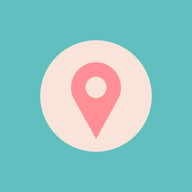
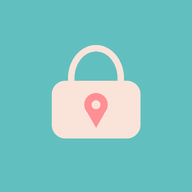
Add files via upload

Changed region(s): [[0.1875, 0.1875, 0.8125, 0.8125], [0.6875, 0.6875, 0.7188, 0.7188], [0.2812, 0.6875, 0.3125, 0.7188]]

diff --git a/index.html b/index.html
@@ -5,10 +5,10 @@
 <meta name="theme-color" content="#0f766e">
 <link rel="manifest" href="manifest.webmanifest">
 <link rel="icon" href="icon-192.png">
-<title>Biyahe</title>
+<title>Wanderpurse</title>
 <style>
-:root{color-scheme:light;--bg:#fae3d9;--cd:#fff7f3;--tx:#2b3a42;--mu:#5f6d73;--ac:#61c0bf;--on:#12363a;--ac2:#1f7a77;--ln:#efcfc3;--bad:#c0392b;--bar:#bbded6;--hd:#ffb6b9;--hx:#3b2a2e}
-:root[data-theme=dark]{color-scheme:dark;--bg:#141b1f;--cd:#1d272c;--tx:#eaf1f2;--mu:#93a5ab;--ac:#61c0bf;--on:#0c2a2d;--ac2:#7fd6d4;--ln:#2c3a40;--bad:#ff8a80;--bar:#2d5654;--hd:#243338;--hx:#ffb6b9}
+:root{color-scheme:light;--bg:#fcf7f4;--cd:#fff;--tx:#1f2a30;--mu:#66757c;--ac:#61c0bf;--on:#0e3236;--ac2:#237f7c;--ln:#f0e6e1;--bad:#c0392b;--bar:#e4f2ef;--hd:#fff;--hx:#1f2a30;--sh:0 1px 2px rgba(60,40,30,.07),0 2px 8px rgba(60,40,30,.05)}
+:root[data-theme=dark]{color-scheme:dark;--bg:#141b1f;--cd:#1d272c;--tx:#eaf1f2;--mu:#93a5ab;--ac:#61c0bf;--on:#0c2a2d;--ac2:#7fd6d4;--ln:#2c3a40;--bad:#ff8a80;--bar:#27413f;--hd:#1d272c;--hx:#eaf1f2;--sh:none}
 *{box-sizing:border-box}
 html,body{margin:0}
 body{background:var(--bg);color:var(--tx);font:16px/1.35 system-ui,sans-serif;padding:env(safe-area-inset-top) 0 calc(76px + env(safe-area-inset-bottom))}
@@ -51,9 +51,26 @@ nav .on{color:var(--ac2);opacity:1}
 .g .it{border:0;border-radius:0;border-top:1px solid var(--ln);margin:0;background:none}
 .pie{display:block;width:210px;max-width:70%;margin:6px auto 10px}
 .dot{display:inline-block;width:10px;height:10px;border-radius:50%;margin-right:6px}
+header{border:0;box-shadow:0 1px 0 var(--ln)}
+.card,.g,.it{border:0;box-shadow:var(--sh);border-radius:16px}
+.it{border-radius:14px}
+.g .it{box-shadow:none;border-top:1px solid var(--ln);border-radius:0}
+input,select{border:0;background:var(--bg);border-radius:12px;padding:12px}
+input:focus,select:focus{outline:2px solid var(--ac)}
+.ht select{background:var(--bg)}
+.btn{border-radius:24px;padding:14px;letter-spacing:.2px}
+.chip{border:0;background:var(--bg);padding:8px 14px}
+.chip.on{background:var(--bar);color:var(--ac2);font-weight:600;box-shadow:inset 0 0 0 1.5px var(--ac)}
+h3{font-size:13px;letter-spacing:.5px;text-transform:uppercase;color:var(--mu);margin:2px 0 8px}
+.gh{background:none;border-bottom:1px solid var(--ln)}
+nav{border:0;box-shadow:0 -1px 0 var(--ln)}
+nav button{opacity:1;font-size:inherit;padding:8px 0 10px}
+nav i{width:60px;height:30px;border-radius:15px;display:flex;align-items:center;justify-content:center}
+nav .on i{background:var(--bar)}
+nav svg{width:22px;height:22px;fill:none;stroke:currentColor;stroke-width:2;stroke-linecap:round;stroke-linejoin:round}
 </style></head><body>
 <header id="h"></header><main id="v"></main>
-<nav><button data-t="log" onclick="tab('log')">✏<small>Log</small></button><button data-t="list" onclick="tab('list')">📋<small>List</small></button><button data-t="rep" onclick="tab('rep')">📊<small>Report</small></button><button data-t="set" onclick="tab('set')">⚙<small>Setup</small></button></nav>
+<nav><button data-t="log" onclick="tab('log')"><i><svg viewBox="0 0 24 24"><path d="M12 5v14M5 12h14"/></svg></i><small>Log</small></button><button data-t="list" onclick="tab('list')"><i><svg viewBox="0 0 24 24"><path d="M8 6h12M8 12h12M8 18h12M4 6h.01M4 12h.01M4 18h.01"/></svg></i><small>List</small></button><button data-t="rep" onclick="tab('rep')"><i><svg viewBox="0 0 24 24"><path d="M5 20v-9M12 20V5M19 20v-12"/></svg></i><small>Report</small></button><button data-t="set" onclick="tab('set')"><i><svg viewBox="0 0 24 24"><path d="M4 7h10M18 7h2M4 17h2M10 17h10"/><circle cx="16" cy="7" r="2"/><circle cx="8" cy="17" r="2"/></svg></i><small>Setup</small></button></nav>
 <div id="t"></div>
 <script>
 const $=s=>document.querySelector(s),K='tl1';
@@ -63,7 +80,9 @@ let S;try{S={...D,...JSON.parse(localStorage.getItem(K)||'{}')}}catch(e){S={...D
 if(!S.trips.length){const t=mk(S.trip||'My Trip',S.base||'PHP');t.w=S.w||[];t.tx=S.tx||[];S.trips=[t];S.cur=t.id}
 ['trip','base','w','tx'].forEach(k=>delete S[k]);
 const Z=()=>S.trips.find(t=>t.id==S.cur)||S.trips[0],B=()=>Z().base;
-const save=()=>{try{localStorage.setItem(K,JSON.stringify(S))}catch(e){alert('Could not save: storage is full or blocked')}};
+let RM=false,MT;
+const save=()=>{try{localStorage.setItem(K,JSON.stringify(S))}catch(e){alert('Could not save: storage is full or blocked')}
+ const z=Z();if(!RM&&z.cid&&window.FB&&window.CU&&CU.ok){clearTimeout(MT);MT=setTimeout(()=>FB.meta(z).catch(()=>{}),700)}};
 const f=x=>x.toLocaleString(undefined,{minimumFractionDigits:2,maximumFractionDigits:2});
 const esc=s=>String(s).replace(/[&<>"]/g,c=>({'&':'&amp;','<':'&lt;','>':'&gt;','"':'&quot;'}[c]));
 const today=()=>new Date(Date.now()-new Date().getTimezoneOffset()*6e4).toISOString().slice(0,10);
@@ -72,18 +91,21 @@ const cu=()=>[...new Set([B(),...Z().w.map(x=>x.cur)])];
 const rate=c=>{if(c==B())return 1;let p=0,q=0;Z().w.forEach(x=>{if(x.cur==c){p+=x.php;q+=x.fc}});return q?p/q:null};
 const toast=m=>{const e=$('#t');e.textContent=m;e.classList.add('s');setTimeout(()=>e.classList.remove('s'),1200)};
 let T=S.owner?'log':'set',L=null,RV='cat';
-const th=()=>{const d=S.theme||(matchMedia('(prefers-color-scheme:dark)').matches?'dark':'light');document.documentElement.dataset.theme=d;document.querySelector('meta[name=theme-color]').content=d=='dark'?'#243338':'#ffb6b9';return d};
+const th=()=>{const d=S.theme||(matchMedia('(prefers-color-scheme:dark)').matches?'dark':'light');document.documentElement.dataset.theme=d;document.querySelector('meta[name=theme-color]').content=d=='dark'?'#1d272c':'#ffffff';return d};
 function tg(){S.theme=th()=='dark'?'light':'dark';save();tab()}
 const CE={Food:'🍜',Drink:'🧋','Major Transpo':'✈','Minor Transpo':'🛺',Activities:'🎡',Shopping:'🛍',Grocery:'🛒',Accommodation:'🏨',Pasabuy:'📦',Other:'✨'};
 const ce=c=>(S.ce&&S.ce[c])||CE[c]||'🏷';
 const PC=['#ff8f95','#61c0bf','#f9c784','#a3d9b1','#b8a9e8','#8cc7f0','#f4a6d7','#d9c27a','#7fb7a4','#e59866'];
-const newL=()=>({k:'e',date:today(),det:'',amt:'',m:S.last.m,c:S.last.c||B(),cat:S.cats[0],by:S.owner,p:[...S.last.p],mode:'eq',ex:{},wl:'',wc:'',wp:'',wf:''});
+const newL=()=>({k:'e',date:today(),det:'',amt:'',m:S.last.m,c:S.last.c||B(),cat:S.cats[0],by:S.owner,p:[...S.last.p],mode:'eq',ex:{},wl:'',wb:'',wc:'',wp:'',wf:''});
 function tab(t){T=t||T;if(!L)L=newL();th();
- $('#h').innerHTML=`<div class="hb"><svg width="34" height="34" viewBox="0 0 32 32"><circle cx="16" cy="16" r="16" fill="#61c0bf"/><circle cx="16" cy="16" r="9.3" fill="#fae3d9"/><path d="M16 9.6a4.2 4.2 0 0 0-4.2 4.2c0 3.1 4.2 8.1 4.2 8.1s4.2-5 4.2-8.1A4.2 4.2 0 0 0 16 9.6z" fill="#ff8f95"/><circle cx="16" cy="13.6" r="1.7" fill="#fae3d9"/></svg><div><b>Biyahe</b><small>budget · split · forex</small></div><button class="x" onclick="tg()">${th()=='dark'?'☀':'🌙'}</button></div><div class="ht"><select onchange="S.cur=+this.value;L=null;save();tab()">${S.trips.map(x=>`<option value="${x.id}" ${x.id==S.cur?'selected':''}>${esc(x.name)}</option>`).join('')}</select><button class="x" onclick="nt()">＋</button></div>`;
+ $('#h').innerHTML=`<div class="hb"><svg width="34" height="34" viewBox="0 0 32 32"><circle cx="16" cy="16" r="16" fill="#61c0bf"/><path d="M11.4 14v-2.5a4.6 4.6 0 0 1 9.2 0V14" fill="none" stroke="#fae3d9" stroke-width="1.3" stroke-linecap="round"/><rect x="8.6" y="13.4" width="14.8" height="9.6" rx="2.2" fill="#fae3d9"/><circle cx="16" cy="17.3" r="1.75" fill="#ff8f95"/><path d="M14.4 18.1 16 21.3l1.6-3.2z" fill="#ff8f95"/><circle cx="16" cy="17.3" r=".65" fill="#fae3d9"/></svg><div><b>Wanderpurse</b><small>budget · split · forex</small></div><button class="x" onclick="tg()">${th()=='dark'?'☀':'🌙'}</button></div><div class="ht"><select onchange="S.cur=+this.value;L=null;save();tab()">${S.trips.map(x=>`<option value="${x.id}" ${x.id==S.cur?'selected':''}>${x.cid?'☁ ':''}${esc(x.name)}</option>`).join('')}</select><button class="x" onclick="nt()">＋</button></div>`;
  $('#v').innerHTML={log:vLog,list:vList,rep:vRep,set:vSet}[T]();
  document.querySelectorAll('nav button').forEach(b=>b.classList.toggle('on',b.dataset.t==T));upd()}
 function nt(){const n=prompt('New trip name');if(!n)return;const t=mk(n,B());t.bp=S.owner?[S.owner]:[];S.trips.push(t);S.cur=t.id;L=null;save();tab('set')}
-function dt(){if(S.trips.length<2)return alert('Keep at least one trip');if(confirm('Delete this trip and all its entries?')){S.trips=S.trips.filter(t=>t.id!=S.cur);S.cur=S.trips[0].id;L=null;save();tab()}}
+function dt(){const z=Z();if(S.trips.length<2)return alert('Keep at least one trip');
+ if(z.cid){if(!(window.CU&&CU.ok&&z.owner==CU.email))return alert('Only the trip owner can delete a shared trip.');if(!confirm('Delete this trip for everyone?'))return;FB.kill(z.cid).catch(e=>alert(msg(e)))}
+ else if(!confirm('Delete this trip and all its entries?'))return;
+ S.trips=S.trips.filter(t=>t.id!=z.id);S.cur=S.trips[0].id;L=null;save();tab()}
 function upd(){const e=$('#rem');if(!e)return;const a=+L.amt||0,k=L.p.length;
  if(L.mode=='eq'){e.textContent=k&&a?'Each: '+f(a/k):'';e.style.color=''}
  else{const d=Math.round((a-L.p.reduce((t,x)=>t+(+L.ex[x]||0),0))*100)/100;e.textContent=d==0?'Split matches the amount':'Left to assign: '+f(d);e.style.color=d==0?'':'var(--bad)'}}
@@ -95,13 +117,14 @@ function vLog(){
  if(L.k=='w')return`<div class="card">${kd}
 <label>Date<input type="date" value="${L.date}" oninput="L.date=this.value"></label>
 <label>Label<input value="${esc(L.wl)}" placeholder="e.g. ATM at airport" oninput="L.wl=this.value"></label>
+<label>Withdrawn by<select onchange="L.wb=this.value">${o(S.people,L.wb||S.owner)}</select></label>
 <label>Foreign currency<input value="${esc(L.wc)}" placeholder="e.g. JPY" list="cl" oninput="L.wc=this.value"></label>
 <datalist id="cl">${cu().filter(c=>c!=B()).map(c=>`<option>${esc(c)}</option>`).join('')}</datalist>
 <div class="two"><label>${esc(B())} paid (fees included)<input type="number" inputmode="decimal" step="any" value="${esc(L.wp)}" oninput="L.wp=this.value"></label>
 <label>Foreign cash received<input type="number" inputmode="decimal" step="any" value="${esc(L.wf)}" oninput="L.wf=this.value"></label></div>
 <div class="mu">This sets the rate for this trip: total ${esc(B())} paid ÷ total foreign cash received.</div><br>
 <button class="btn" onclick="addW()">Save withdrawal</button></div>`;
- const own=L.by==S.owner,cash=!own||L.m=='cash';
+ const own=true,cash=L.m=='cash';
  const mc=[['debit',S.acc.debit],['credit',S.acc.credit],['cash','Cash']].map(([k,n])=>`<button class="chip ${L.m==k?'on':''}" onclick="L.m='${k}';tab()">${esc(n)}</button>`).join('');
  const pc=S.people.map((p,i)=>`<button class="chip ${L.p.includes(p)?'on':''}" onclick="tp(${i})">${esc(p)}</button>`).join('');
  const gc=S.groups.map((g,i)=>`<button class="chip" onclick="gp(${i})">${esc(g.n)}</button>`).join('');
@@ -121,24 +144,24 @@ ${ex}<div class="mu" id="rem"></div><br><button class="btn" onclick="add()">Save
 function tp(i){const p=S.people[i],j=L.p.indexOf(p);j<0?L.p.push(p):L.p.splice(j,1);tab()}
 function gp(i){L.p=S.groups[i].p.filter(p=>S.people.includes(p));tab()}
 function sg(){const n=prompt('Group name');if(n&&L.p.length){S.groups.push({n,p:[...L.p]});save();tab()}}
-function add(){
+function add(){if(!okc())return;
  const a=+L.amt;if(!(a>0))return alert('Enter an amount');
  if(!L.p.length)return alert('Pick who shares this');
- const own=L.by==S.owner,cash=!own||L.m=='cash',cur=cash?L.c:B();
+ const cash=L.m=='cash',cur=cash?L.c:B();
  let sh;
  if(L.mode=='eq')sh=L.p.map(p=>({p,a:a/L.p.length}));
  else{sh=L.p.map(p=>({p,a:+L.ex[p]||0}));if(Math.abs(sh.reduce((t,x)=>t+x.a,0)-a)>.005)return alert('The split must add up to the amount')}
- Z().tx.push({id:Date.now(),date:L.date,det:L.det||L.cat,cat:L.cat,cur,amt:a,by:L.by,m:own?L.m:'cash',sh});
+ const t={id:Date.now(),date:L.date,det:L.det||L.cat,cat:L.cat,cur,amt:a,by:L.by,m:L.m,sh};Z().tx.push(t);cw('tx',t);
  S.last={m:L.m,c:L.c,p:L.p};save();const d=L.date;L=newL();L.date=d;tab('log');toast('Saved')}
-function addW(){const cur=(L.wc||'').trim().toUpperCase(),php=+L.wp,fc=+L.wf;
+function addW(){if(!okc())return;const cur=(L.wc||'').trim().toUpperCase(),php=+L.wp,fc=+L.wf;
  if(!cur||cur==B()||!(php>0)||!(fc>0))return alert(`Enter a foreign currency code (not ${B()}), the ${B()} paid and the foreign cash received`);
- Z().w.push({id:Date.now(),date:L.date,label:L.wl,cur,php,fc});S.last.m='cash';S.last.c=cur;save();const d=L.date;L=newL();L.date=d;tab('log');toast('Saved')}
-const ml=t=>t.by!=S.owner?'Paid by '+t.by:t.m=='debit'?S.acc.debit:t.m=='credit'?S.acc.credit:'Cash';
+ const w={id:Date.now(),date:L.date,label:L.wl,who:L.wb||S.owner,cur,php,fc};Z().w.push(w);cw('w',w);S.last.m='cash';S.last.c=cur;save();const d=L.date;L=newL();L.date=d;tab('log');toast('Saved')}
+const ml=t=>(t.by==S.owner?'':t.by+' · ')+(t.m=='debit'?(t.by==S.owner?S.acc.debit:'Debit'):t.m=='credit'?(t.by==S.owner?S.acc.credit:'Credit'):'Cash');
 function agg(){const o={tot:0,per:{},paid:{},cat:{},pay:{},day:{}};
  Z().tx.forEach(t=>{const r=rate(t.cur)||0,v=t.amt*r;o.tot+=v;o.paid[t.by]=(o.paid[t.by]||0)+v;
   t.sh.forEach(x=>o.per[x.p]=(o.per[x.p]||0)+x.a*r);
   o.cat[t.cat]=(o.cat[t.cat]||0)+v;
-  const m=t.by!=S.owner?'Paid by '+t.by:t.m=='debit'?S.acc.debit:t.m=='credit'?S.acc.credit:'Cash '+t.cur;
+  const m=ml(t)+(t.m=='cash'&&t.cur!=B()?' '+t.cur:'');
   o.pay[m]=(o.pay[m]||0)+v;o.day[t.date]=(o.day[t.date]||0)+v});
  return o}
 function vList(){
@@ -146,16 +169,16 @@ function vList(){
  const it=[...z.tx.map(t=>({...t,k:'e'})),...z.w.map(w=>({...w,k:'w'}))].sort((x,y)=>y.date.localeCompare(x.date)||y.id-x.id);
  const dt={},cum={};z.tx.forEach(t=>dt[t.date]=(dt[t.date]||0)+t.amt*(rate(t.cur)||0));
  const ds=[...new Set(it.map(t=>t.date))].sort();let run=0;ds.forEach(d=>{run+=dt[d]||0;cum[d]=run});
- const row=t=>{if(t.k=='w')return`<div class="it"><div><b>🏧 ${esc(t.label||'Withdrawal')}</b><div class="mu">1 ${esc(t.cur)} = ${(t.php/t.fc).toFixed(4)} ${b}</div></div><div class="r"><b>${f(t.fc)} ${esc(t.cur)}</b><div class="mu">${f(t.php)} ${b}</div></div><button class="x" onclick="delW(${t.id})">✕</button></div>`;
+ const row=t=>{if(t.k=='w')return`<div class="it"><div><b>🏧 ${esc(t.label||'Withdrawal')}</b><div class="mu">${esc(t.who||S.owner)} · 1 ${esc(t.cur)} = ${(t.php/t.fc).toFixed(4)} ${b}</div></div><div class="r"><b>${f(t.fc)} ${esc(t.cur)}</b><div class="mu">${f(t.php)} ${b}</div></div><button class="x" onclick="delW(${t.id})">✕</button></div>`;
   const r=rate(t.cur)||0;return`<div class="it"><div><b>${ce(t.cat)} ${esc(t.det)}</b><div class="mu">${esc(t.cat)} · ${esc(ml(t))}</div><div class="mu">${t.sh.map(x=>esc(x.p)+' '+f(x.a)).join(' · ')}</div></div><div class="r"><b>${f(t.amt)} ${esc(t.cur)}</b>${t.cur!=B()?`<div class="mu">${f(t.amt*r)} ${b}</div>`:''}</div><button class="x" onclick="del(${t.id})">✕</button></div>`};
  let h=`<div class="card"><div class="mu">Total paid</div><b>${f(a.tot)} ${b}</b><div class="mu" style="margin-top:6px">${Object.entries(a.per).map(([p,v])=>esc(p)+' '+f(v)).join(' · ')}</div></div>`;
  ds.slice().reverse().forEach(d=>{const e=it.filter(t=>t.date==d);
   h+=`<div class="g"><div class="gh"><span>${new Date(d+'T00:00').toLocaleDateString(undefined,{weekday:'short',day:'numeric',month:'short',year:'numeric'})}<small>${z.start?'Day '+(dd(z.start,d)+1)+' · ':''}${e.length} ${e.length==1?'entry':'entries'}</small></span><span style="text-align:right">${f(dt[d]||0)} ${b}<small>Trip total ${f(cum[d])} ${b}</small></span></div>${e.map(row).join('')}</div>`});
  return h+(it.length?'':'<div class="mu">No entries yet.</div>')}
-function del(id){if(confirm('Delete this entry?')){Z().tx=Z().tx.filter(t=>t.id!=id);save();tab()}}
-function delW(id){const z=Z(),n=z.w.filter(x=>x.id!=id);
+function del(id){if(!okc())return;if(confirm('Delete this entry?')){Z().tx=Z().tx.filter(t=>t.id!=id);cd('tx',id);save();tab()}}
+function delW(id){if(!okc())return;const z=Z(),n=z.w.filter(x=>x.id!=id);
  if(z.tx.some(t=>t.cur!=z.base&&!n.some(x=>x.cur==t.cur)))return alert('Entries still use that currency, so the withdrawal stays');
- if(confirm('Delete this withdrawal?')){z.w=n;save();tab()}}
+ if(confirm('Delete this withdrawal?')){z.w=n;cd('w',id);save();tab()}}
 function tb(i){const z=Z(),p=S.people[i],j=z.bp.indexOf(p);j<0?z.bp.push(p):z.bp.splice(j,1);save();tab()}
 function vRep(){
  const z=Z(),a=agg(),b=esc(B());
@@ -167,27 +190,27 @@ function vRep(){
  const list=(o,em)=>Object.entries(o).sort((x,y)=>y[1]-x[1]).map(([k,v],i)=>rw(`<span class="dot" style="background:${PC[i%PC.length]}"></span>${em?em(k)+' ':''}${esc(k)}`,f(v)+' '+b,(v/tot(o)*100).toFixed(1)+'%')).join('');
  const pie=o=>{let c=0;return`<svg class="pie" viewBox="0 0 42 42"><circle cx="21" cy="21" r="15.9155" fill="none" stroke="var(--bar)" stroke-width="7"/>${Object.entries(o).sort((x,y)=>y[1]-x[1]).map(([k,v],i)=>{const p=v/tot(o)*100,e=`<circle cx="21" cy="21" r="15.9155" fill="none" stroke="${PC[i%PC.length]}" stroke-width="7" stroke-dasharray="${p} ${100-p}" stroke-dashoffset="${25-c}"/>`;c+=p;return e}).join('')}<text x="21" y="20.6" text-anchor="middle" font-size="3.4" font-weight="700" fill="var(--tx)">${f(tot(o))}</text><text x="21" y="25" text-anchor="middle" font-size="2.6" fill="var(--mu)">${b}</text></svg>`};
  const ps=[...new Set([...Object.keys(a.per),...Object.keys(a.paid)])];
- let h=`<div class="card"><h3>💰 Budget</h3><label>Budget (${b})<input type="number" inputmode="decimal" value="${z.budget||''}" onchange="Z().budget=+this.value||0;save();tab()"></label>
+ let h=`<div class="card"><h3>Budget</h3><label>Budget (${b})<input type="number" inputmode="decimal" value="${z.budget||''}" onchange="Z().budget=+this.value||0;save();tab()"></label>
 <div class="mu">Counts the shares of (pasabuy not included)</div><div class="chips">${S.people.map((p,i)=>`<button class="chip ${z.bp.includes(p)?'on':''}" onclick="tb(${i})">${esc(p)}</button>`).join('')}</div>
 ${rw('Spent',f(bs)+' '+b)}${z.budget?rw('Left',f(left)+' '+b):''}${rw('Average per day',f(bs/el)+' '+b)}${z.budget&&rem?rw('Left per remaining day',f(left/rem)+' '+b):''}</div>`;
- h+=`<div class="card"><h3>👥 Per person</h3>${ps.map(p=>{const s=a.per[p]||0,pd=a.paid[p]||0,n=pd-s,i=S.people.indexOf(p);
+ h+=`<div class="card"><h3>Per person</h3>${ps.map(p=>{const s=a.per[p]||0,pd=a.paid[p]||0,n=pd-s,i=S.people.indexOf(p);
   return rw(esc(p),f(s)+' '+b,`Paid ${f(pd)} · ${Math.abs(n)<.005?'even':n>0?'is owed '+f(n):'owes '+f(-n)}`+(p!=S.owner&&i>=0?` · <label style="display:inline;margin:0"><input type="checkbox" style="display:inline;width:auto" ${z.st[p]?'checked':''} onchange="Z().st[S.people[${i}]]=this.checked;save()"> settled</label>`:''))}).join('')}</div>`;
  const pt=z.tx.filter(t=>t.cat=='Pasabuy');
  if(pt.length){const by={};pt.forEach(t=>{const r=rate(t.cur)||0;t.sh.forEach(x=>{if(x.p!=t.by)by[x.p]=(by[x.p]||0)+x.a*r})});
   const ch=Object.values(by).reduce((s,v)=>s+v,0),rc=Object.entries(by).reduce((s,[p,v])=>s+(z.pr[p]?v:0),0);
-  h+=`<div class="card"><h3>🛍 Pasabuy</h3>${rw('Spent',f(a.cat.Pasabuy)+' '+b)}${rw('Charged to buyers',f(ch)+' '+b)}${rw('Received',f(rc)+' '+b)}${rw('Still to receive',f(ch-rc)+' '+b)}
+  h+=`<div class="card"><h3>Pasabuy</h3>${rw('Spent',f(a.cat.Pasabuy)+' '+b)}${rw('Charged to buyers',f(ch)+' '+b)}${rw('Received',f(rc)+' '+b)}${rw('Still to receive',f(ch-rc)+' '+b)}
 ${Object.entries(by).map(([p,v])=>{const i=S.people.indexOf(p);return rw(esc(p),f(v)+' '+b,i>=0?`<label style="display:inline;margin:0"><input type="checkbox" style="display:inline;width:auto" ${z.pr[p]?'checked':''} onchange="Z().pr[S.people[${i}]]=this.checked;save();tab()"> received</label>`:'')}).join('')}</div>`}
- const wl=cu().filter(c=>c!=B()).map(c=>{const g=z.w.filter(x=>x.cur==c).reduce((s,x)=>s+x.fc,0),sp=z.tx.filter(t=>t.cur==c&&t.by==S.owner&&t.m=='cash').reduce((s,t)=>s+t.amt,0);return rw(esc(c)+' cash left',f(g-sp)+' '+esc(c),`Withdrawn ${f(g)} · spent ${f(sp)}`)}).join('');
- if(wl)h+=`<div class="card"><h3>💵 Cash wallets</h3>${wl}</div>`;
+ const wl=cu().filter(c=>c!=B()).flatMap(c=>S.people.map(p=>{const g=z.w.filter(x=>x.cur==c&&(x.who||S.owner)==p).reduce((s,x)=>s+x.fc,0),sp=z.tx.filter(t=>t.cur==c&&t.by==p&&t.m=='cash').reduce((s,t)=>s+t.amt,0);return g||sp?rw(esc(p)+' · '+esc(c)+' cash',f(g-sp)+' '+esc(c),`Withdrawn ${f(g)} · spent ${f(sp)}`):''})).join('');
+ if(wl)h+=`<div class="card"><h3>Cash wallets</h3>${wl}</div>`;
  const src={cat:[a.cat,ce],per:[a.per,null],pay:[a.pay,null]}[RV];
- h+=`<div class="card"><h3>🥧 Spending breakdown</h3><div class="chips">${[['cat','Category'],['per','Person'],['pay','Payment']].map(([k,n])=>`<button class="chip ${RV==k?'on':''}" onclick="RV='${k}';tab()">${n}</button>`).join('')}</div>${pie(src[0])}${list(src[0],src[1])}</div>`;
- h+=`<div class="card"><h3>📅 By day</h3>${Object.entries(a.day).sort().map(([d,v])=>rw(d,f(v)+' '+b)).join('')}</div>`;
+ h+=`<div class="card"><h3>Spending breakdown</h3><div class="chips">${[['cat','Category'],['per','Person'],['pay','Payment']].map(([k,n])=>`<button class="chip ${RV==k?'on':''}" onclick="RV='${k}';tab()">${n}</button>`).join('')}</div>${pie(src[0])}${list(src[0],src[1])}</div>`;
+ h+=`<div class="card"><h3>By day</h3>${Object.entries(a.day).sort().map(([d,v])=>rw(d,f(v)+' '+b)).join('')}</div>`;
  return h}
 function setOwner(v){v=v.trim();if(!v)return;const o=S.owner;
  if(o){const m=p=>p==o?v:p;S.people=S.people.map(m);S.last.p=S.last.p.map(m);S.groups.forEach(g=>g.p=g.p.map(m));S.trips.forEach(t=>{t.bp=t.bp.map(m);t.tx.forEach(x=>{if(x.by==o)x.by=v;x.sh.forEach(y=>{if(y.p==o)y.p=v})})});L=null}
  else{S.people.unshift(v);Z().bp=[v]}
  S.owner=v;save();tab('set')}
-function addP(){const v=$('#np').value.trim();if(v&&!S.people.includes(v)){S.people.push(v);save();tab('set')}}
+function addP(){const v=$('#np').value.trim();if(v&&!S.people.includes(v)){S.people.push(v);if(Z().cid)Z().ppl=[...(Z().ppl||[]),v];save();tab('set')}}
 function rmP(i){const p=S.people[i];if(p==S.owner)return alert('That is you');if(S.trips.some(t=>t.tx.some(x=>x.by==p||x.sh.some(y=>y.p==p))))return alert('Used in entries, so it stays to keep totals correct');S.people.splice(i,1);save();tab('set')}
 function rmG(i){S.groups.splice(i,1);save();tab('set')}
 function addC(){let v=$('#nc').value.trim(),e='';const m=v.match(/^(\p{Extended_Pictographic}\S*)\s+(.+)$/u);if(m){e=m[1];v=m[2]}if(v&&!S.cats.includes(v)){S.cats.push(v);if(e)S.ce[v]=e;save();tab('set')}}
@@ -199,21 +222,85 @@ function vSet(){const z=Z(),b=esc(z.base);
  const li=(a,fn)=>a.map((x,i)=>`<div class="li"><span>${esc(x)}</span><button class="x" onclick="${fn}(${i})">✕</button></div>`).join('');
  const ad=(id,ph,fn)=>`<div class="two" style="grid-template-columns:1fr auto;margin-top:8px"><input id="${id}" placeholder="${ph}"><button class="btn sm" onclick="${fn}()">Add</button></div>`;
  const cl=cu().filter(c=>c!=z.base).map(c=>`<div class="li"><span>${esc(c)}</span><span class="mu">1 ${esc(c)} = ${rate(c).toFixed(4)} ${b} · ${z.w.filter(x=>x.cur==c).length} withdrawal(s)</span></div>`).join('')||'<div class="mu">Log a withdrawal (Log tab) to add a foreign currency.</div>';
- return`<div class="card"><h3>🧳 This trip</h3>
+ return`<div class="card"><h3>This trip</h3>
 <label>Trip name<input value="${esc(z.name)}" onchange="Z().name=this.value;save();tab()"></label>
 <div class="two"><label>Start<input type="date" value="${z.start}" onchange="Z().start=this.value;save()"></label><label>End<input type="date" value="${z.end}" onchange="Z().end=this.value;save()"></label></div>
 <label>Home currency<input value="${b}" onchange="Z().base=this.value.trim().toUpperCase()||'PHP';save();tab()"></label>
 <button class="btn sm" onclick="dt()">Delete this trip</button></div>
-<div class="card"><h3>💱 Currencies (this trip)</h3><div class="li"><span>${b}</span><span class="mu">home currency</span></div>${cl}</div>
-<div class="card"><h3>🙋 You & your cards</h3><label>Your name<input value="${esc(S.owner)}" onchange="setOwner(this.value)"></label>
+${vCloud()}<div class="card"><h3>Currencies (this trip)</h3><div class="li"><span>${b}</span><span class="mu">home currency</span></div>${cl}</div>
+<div class="card"><h3>You & your cards</h3><label>Your name<input value="${esc(S.owner)}" onchange="setOwner(this.value)"></label>
 <div class="two"><label>Debit card<input value="${esc(S.acc.debit)}" onchange="S.acc.debit=this.value;save()"></label><label>Credit card<input value="${esc(S.acc.credit)}" onchange="S.acc.credit=this.value;save()"></label></div></div>
-<div class="card"><h3>👥 People</h3>${li(S.people,'rmP')}${ad('np','Add person','addP')}</div>
-<div class="card"><h3>🔖 Saved groups</h3>${li(S.groups.map(g=>g.n+' ('+g.p.length+')'),'rmG')||'<div class="mu">Save a group from the Log screen.</div>'}</div>
-<div class="card"><h3>🏷 Categories</h3>${S.cats.map((c,i)=>`<div class="li"><span><a onclick="ee(${i})">${ce(c)}</a> ${esc(c)}</span><button class="x" onclick="rmC(${i})">✕</button></div>`).join('')}${ad('nc','🎫 Add category','addC')}<div class="mu" style="margin-top:6px">Tip: start with an emoji, e.g. 🎫 Tickets. Tap an emoji in the list to change it.</div></div>
-<div class="card"><h3>💾 Backup</h3><div class="mu">Your data lives only on this phone. Download a backup now and then.</div><br>
+<div class="card"><h3>People</h3>${li(S.people,'rmP')}${ad('np','Add person','addP')}</div>
+<div class="card"><h3>Saved groups</h3>${li(S.groups.map(g=>g.n+' ('+g.p.length+')'),'rmG')||'<div class="mu">Save a group from the Log screen.</div>'}</div>
+<div class="card"><h3>Categories</h3>${S.cats.map((c,i)=>`<div class="li"><span><a onclick="ee(${i})">${ce(c)}</a> ${esc(c)}</span><button class="x" onclick="rmC(${i})">✕</button></div>`).join('')}${ad('nc','🎫 Add category','addC')}<div class="mu" style="margin-top:6px">Tip: start with an emoji, e.g. 🎫 Tickets. Tap an emoji in the list to change it.</div></div>
+<div class="card"><h3>Backup</h3><div class="mu">Your data lives only on this phone. Download a backup now and then.</div><br>
 <button class="btn sm" onclick="bk()">Download backup</button>
 <label class="btn sm" style="display:inline-block;color:var(--on);margin:0 0 0 8px">Restore<input type="file" accept=".json" hidden onchange="rst(this)"></label></div>`}
+var cloud={
+ trip(cid,d){RM=true;try{let z=S.trips.find(t=>t.cid==cid);
+  if(!z){z=mk(d.name,d.base);z.id=Date.now()+S.trips.length;z.cid=cid;S.trips.push(z)}
+  ['name','base','start','end','budget','bp','st','pr','ppl','members','owner'].forEach(k=>{if(d[k]!==undefined)z[k]=d[k]});
+  (d.ppl||[]).forEach(p=>{if(!S.people.includes(p))S.people.push(p)});
+  if(S.owner&&!(z.ppl||[]).includes(S.owner)){z.ppl=[...(z.ppl||[]),S.owner];FB.meta(z).catch(()=>{})}
+  save()}finally{RM=false}cloud.draw()},
+ col(cid,k,a){const z=S.trips.find(t=>t.cid==cid);if(!z)return;z[k]=a;RM=true;save();RM=false;cloud.draw()},
+ gone(cid){S.trips=S.trips.filter(t=>t.cid!=cid);if(!S.trips.length)S.trips.push(mk('My Trip','PHP'));if(!S.trips.some(t=>t.id==S.cur))S.cur=S.trips[0].id;L=null;RM=true;save();RM=false;cloud.draw()},
+ draw(){const a=document.activeElement;if(a&&a.matches&&a.matches('input,select'))return;tab()},
+ auth(){if(T=='set')cloud.draw()}};
+const okc=()=>{const z=Z();if(!z.cid||(window.CU&&CU.ok))return true;alert('This is a shared trip. Sign in under Setup > Cloud sync first.');return false};
+const msg=x=>({'auth/invalid-credential':'Wrong email or password','auth/email-already-in-use':'That email already has an account: use Sign in','auth/weak-password':'Use at least 6 characters','auth/invalid-email':'Invalid email','auth/network-request-failed':'No internet connection','permission-denied':'Not allowed. Check the Firestore rules and that you are a member.'}[x.code]||x.code||'Something went wrong');
+const cw=(k,o)=>{const z=Z();if(z.cid)FB.set(z.cid,k,o).catch(e=>alert(msg(e)))};
+const cd=(k,i)=>{const z=Z();if(z.cid)FB.del(z.cid,k,i).catch(e=>alert(msg(e)))};
+function vCloud(){const z=Z(),c=window.CU,h=t=>`<div class="card"><h3>Cloud sync</h3>${t}</div>`;
+ if(window.FB===undefined)return h('<div class="mu">Loading…</div>');
+ if(!FB)return h('<div class="mu">Not set up. Put your Firebase keys in config.js and upload it.</div>');
+ if(!c)return h(`<label>Email<input id="ce" type="email" autocomplete="username"></label><label>Password<input id="cp" type="password" autocomplete="current-password"></label><button class="btn" onclick="ca('login')">Sign in</button><div class="chips" style="margin-top:10px"><button class="chip" onclick="ca('signup')">Create account</button><button class="chip" onclick="ca('reset')">Forgot password</button></div><div class="mu">Use the email you were invited with.</div>`);
+ if(!c.ok)return h(`<div class="mu">Signed in as ${esc(c.email)}. Open the verification link we emailed you (check spam), then tap the button.</div><br><div class="chips"><button class="chip on" onclick="FB.refresh().catch(e=>alert(msg(e)))">I have verified</button><button class="chip" onclick="FB.resend().then(()=>toast('Sent'))">Resend email</button><button class="chip" onclick="FB.out()">Sign out</button></div>`);
+ const own=z.owner==c.email;
+ const body=z.cid?`<div class="mu">This trip is shared. Members can add entries.</div>${(z.members||[]).map((m,i)=>`<div class="li"><span>${esc(m)}${m==z.owner?' <span class="mu">owner</span>':''}</span>${own&&m!=z.owner?`<button class="x" onclick="mDel(${i})">✕</button>`:''}</div>`).join('')}${own?`<div class="two" style="grid-template-columns:1fr auto;margin-top:8px"><input id="me" type="email" placeholder="Invite by email"><button class="btn sm" onclick="mAdd()">Add</button></div><div class="mu" style="margin-top:6px">They install the app, create an account with that email, verify it, and the trip appears.</div>`:''}`:`<button class="btn" onclick="sh()">Share this trip</button><div class="mu" style="margin-top:6px">Uploads this trip so people you invite can add entries.</div>`;
+ return h(`<div class="mu">Signed in as ${esc(c.email)}</div>${body}<div class="chips" style="margin-top:10px"><button class="chip" onclick="FB.out()">Sign out</button></div>`)}
+async function ca(k){const e=($('#ce').value||'').trim().toLowerCase(),p=$('#cp').value;if(!e)return alert('Enter your email');
+ try{if(k=='reset'){await FB.reset(e);return alert('Password reset email sent. Check your inbox.')}
+  if(!p)return alert('Enter your password');
+  if(k=='signup'){await FB.signup(e,p);alert('Account created. Open the verification link we emailed you, then come back and tap I have verified.')}else await FB.login(e,p)}catch(x){alert(msg(x))}}
+async function sh(){if(!confirm('Upload this trip to the cloud?'))return;try{await FB.share(Z());toast('Shared');tab('set')}catch(x){alert(msg(x))}}
+async function mAdd(){const e=$('#me').value.trim().toLowerCase();if(!e.includes('@'))return;try{await FB.mem(Z().cid,e,1);$('#me').value=''}catch(x){alert(msg(x))}}
+async function mDel(i){const z=Z();if(confirm('Remove '+z.members[i]+' from this trip?'))try{await FB.mem(z.cid,z.members[i],0)}catch(x){alert(msg(x))}}
 if(navigator.storage&&navigator.storage.persist)navigator.storage.persist();
 if('serviceWorker'in navigator)navigator.serviceWorker.register('sw.js');
 tab();
+</script>
+<script type="module">
+const U='https://www.gstatic.com/firebasejs/10.12.2/';
+try{
+const cfg=(await import('./config.js')).default;if(!cfg.apiKey)throw 0;
+const [{initializeApp},A,F]=await Promise.all([import(U+'firebase-app.js'),import(U+'firebase-auth.js'),import(U+'firebase-firestore.js')]);
+const app=initializeApp(cfg),au=A.getAuth(app),db=F.initializeFirestore(app,{localCache:F.persistentLocalCache({tabManager:F.persistentMultipleTabManager()})});
+const subs={};let top=null;
+const sub=cid=>{if(subs[cid])return;subs[cid]=['tx','w'].map(k=>F.onSnapshot(F.collection(db,'trips',cid,k),s=>cloud.col(cid,k,s.docs.map(d=>d.data()))))};
+const stop=()=>{Object.values(subs).flat().forEach(u=>u());for(const k in subs)delete subs[k];if(top)top();top=null};
+const go=u=>{stop();if(!u||!u.emailVerified)return;top=F.onSnapshot(F.query(F.collection(db,'trips'),F.where('members','array-contains',u.email)),s=>s.docChanges().forEach(c=>{const id=c.doc.id;if(c.type=='removed'){(subs[id]||[]).forEach(x=>x());delete subs[id];cloud.gone(id)}else{cloud.trip(id,c.doc.data());sub(id)}}),e=>toast('Sync error: '+e.code))};
+A.onAuthStateChanged(au,u=>{window.CU=u?{email:u.email,ok:u.emailVerified}:null;go(u);cloud.auth()});
+const meta=z=>({name:z.name,base:z.base,start:z.start||'',end:z.end||'',budget:z.budget||0,bp:z.bp||[],st:z.st||{},pr:z.pr||{},ppl:z.ppl||[]});
+const ref=(c,k,i)=>F.doc(db,'trips',c,k,String(i));
+window.FB={
+ login:(e,p)=>A.signInWithEmailAndPassword(au,e,p),
+ signup:async(e,p)=>{const c=await A.createUserWithEmailAndPassword(au,e,p);await A.sendEmailVerification(c.user)},
+ resend:()=>A.sendEmailVerification(au.currentUser),
+ reset:e=>A.sendPasswordResetEmail(au,e),
+ out:()=>A.signOut(au),
+ refresh:async()=>{await A.reload(au.currentUser);await au.currentUser.getIdToken(true);const u=au.currentUser;window.CU={email:u.email,ok:u.emailVerified};go(u);cloud.auth()},
+ set:(c,k,o)=>F.setDoc(ref(c,k,o.id),o),
+ del:(c,k,i)=>F.deleteDoc(ref(c,k,i)),
+ meta:z=>F.setDoc(F.doc(db,'trips',z.cid),meta(z),{merge:true}),
+ mem:(c,e,add)=>F.updateDoc(F.doc(db,'trips',c),{members:add?F.arrayUnion(e):F.arrayRemove(e)}),
+ kill:c=>F.deleteDoc(F.doc(db,'trips',c)),
+ share:async z=>{const me=au.currentUser.email,r=F.doc(F.collection(db,'trips'));z.cid=r.id;z.owner=me;z.members=[me];
+  try{await F.setDoc(r,{...meta(z),owner:me,members:[me]});
+   const all=[...z.tx.map(o=>['tx',o]),...z.w.map(o=>['w',o])];
+   for(let i=0;i<all.length;i+=400){const b=F.writeBatch(db);all.slice(i,i+400).forEach(([k,o])=>b.set(ref(r.id,k,o.id),o));await b.commit()}
+   save()}catch(e){delete z.cid;throw e}}
+};
+}catch(e){window.FB=null}
+cloud.auth();
 </script></body></html>

diff --git a/sw.js b/sw.js
@@ -1,7 +1,8 @@
-const V='tl-v1';
+const V='tl-v2';
 self.addEventListener('install',e=>{self.skipWaiting()});
 self.addEventListener('activate',e=>e.waitUntil(caches.keys().then(k=>Promise.all(k.filter(x=>x!=V).map(x=>caches.delete(x)))).then(()=>self.clients.claim())));
 self.addEventListener('fetch',e=>{
- if(e.request.method!='GET')return;
- e.respondWith(fetch(e.request).then(r=>{const c=r.clone();caches.open(V).then(x=>x.put(e.request,c));return r}).catch(()=>caches.match(e.request)));
+ const u=new URL(e.request.url);
+ if(e.request.method!='GET'||!(u.origin==location.origin||u.hostname=='www.gstatic.com'))return;
+ e.respondWith(fetch(e.request).then(r=>{if(r.ok){const c=r.clone();caches.open(V).then(x=>x.put(e.request,c))}return r}).catch(()=>caches.match(e.request)));
 });

diff --git a/config.js b/config.js
@@ -1,0 +1,7 @@
+// Paste your Firebase web config values here (Firebase console > Project settings > Your apps).
+export default {
+  apiKey: "",
+  authDomain: "",
+  projectId: "",
+  appId: ""
+};
